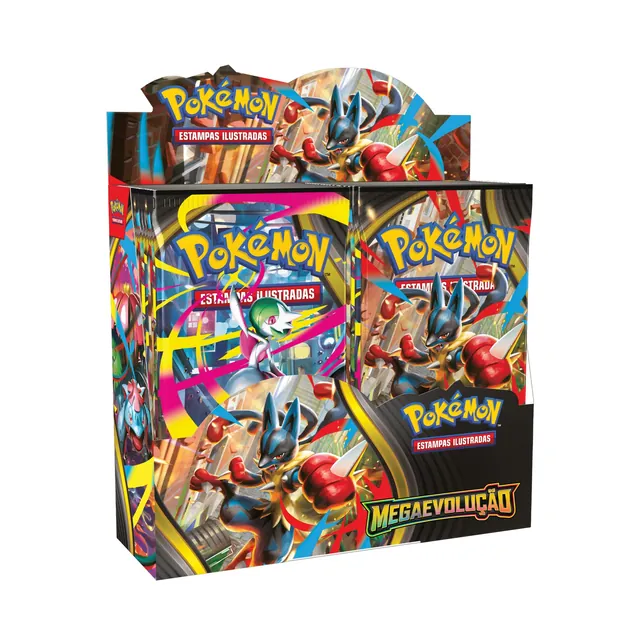
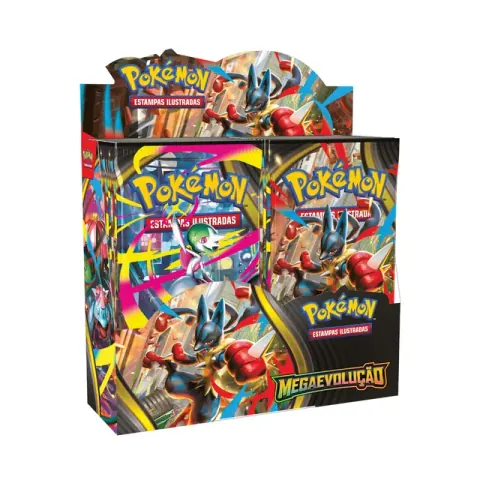
Limpa o site e otimiza imagens
- Remove as seções "Todos os jogos que você coleciona" e "Tudo pro seu acervo"
- Apaga imagens e CSS que ficaram sem uso
- Converte as imagens do topo de PNG para WebP (~2,2 MB -> ~216 KB)
- Comprime booster-box e a imagem de compartilhamento
- Carrega a fonte do Google sem bloquear a renderização
- Troca estilos inline por classes

diff --git a/index.html b/index.html
@@ -11,9 +11,9 @@
 <meta name="theme-color" content="#560509">
 <link rel="icon" type="image/png" href="img/favicon.png">
 <link rel="preload" as="image" href="img/logo.webp" fetchpriority="high">
-<link rel="preconnect" href="https://fonts.googleapis.com">
 <link rel="preconnect" href="https://fonts.gstatic.com" crossorigin>
-<link href="https://fonts.googleapis.com/css2?family=Archivo+Black&family=Archivo:wght@400;700&display=swap" rel="stylesheet">
+<link rel="preload" as="style" href="https://fonts.googleapis.com/css2?family=Archivo+Black&family=Archivo:wght@400;700&display=swap" onload="this.onload=null;this.rel='stylesheet'">
+<noscript><link rel="stylesheet" href="https://fonts.googleapis.com/css2?family=Archivo+Black&family=Archivo:wght@400;700&display=swap"></noscript>
 
 <!-- Meta Pixel Code -->
 <script>
@@ -33,16 +33,13 @@ src="https://www.facebook.com/tr?id=1001768835700035&ev=PageView&noscript=1"
 /></noscript>
 <!-- End Meta Pixel Code -->
 
-
 <style>
 :root{
   --red-1:#a3151b;
   --red-3:#560509;
   --red-4:#3d0306;
-  --card:#6e0b10;
   --line:rgba(240,196,92,.22);
   --gold:#f0c45c;
-  --cream:#fbf6ec;
   --text:#fff8ee;
   --muted:#e6c9bf;
 }
@@ -61,7 +58,6 @@ img{max-width:100%;height:auto;display:block}
 a{color:inherit;text-decoration:none}
 h1,h2,h3{font-family:'Archivo Black',sans-serif;font-weight:400;line-height:1.05;letter-spacing:-.01em}
 .hl{color:var(--gold)}
-.center{text-align:center}
 .wrap{width:min(1040px,100% - 32px);margin-inline:auto}
 section{padding:88px 0}
 /* seções abaixo da dobra só são desenhadas quando chegam perto da tela */
@@ -114,27 +110,6 @@ a:focus-visible,summary:focus-visible{outline:3px solid var(--gold);outline-offs
 .hero p{max-width:560px;margin:0 auto 22px;color:var(--muted);font-size:1.08rem}
 .hero p b{color:var(--text)}
 
-/* ================= JOGOS ================= */
-.games{border-top:1px solid var(--line)}
-.game-grid{display:grid;grid-template-columns:repeat(4,1fr);gap:14px}
-.game{border-radius:14px;overflow:hidden;background:var(--cream);aspect-ratio:4/5;display:flex;flex-direction:column}
-.game img{flex:1;min-height:0;width:100%;object-fit:contain;padding:14px;transition:transform .3s}
-.game.full img{object-fit:cover;padding:0}
-.game span{background:var(--card);padding:12px 14px;font-weight:700;font-size:.98rem}
-.game:hover img{transform:scale(1.04)}
-
-/* ================= PRODUTOS ================= */
-.products{background:linear-gradient(180deg,transparent,rgba(0,0,0,.18))}
-.prod-grid{display:grid;grid-template-columns:repeat(3,1fr);gap:20px}
-.prod{border-radius:16px;overflow:hidden;background:var(--card);border:1px solid var(--line)}
-.prod .pic{background:var(--cream);aspect-ratio:1;padding:22px}
-.prod .pic img{width:100%;height:100%;object-fit:contain}
-.prod .info{padding:16px 18px 20px}
-.prod h3{font-size:1.2rem;margin-bottom:4px}
-.prod p{color:var(--muted);font-size:.95rem}
-.also{margin:34px auto 38px;max-width:760px;text-align:center;color:var(--muted);font-size:1.02rem}
-.also b{color:var(--text)}
-
 /* ================= ALERTA ================= */
 .alert{border-block:1px solid var(--line);background:rgba(0,0,0,.14)}
 .alert .wrap{display:grid;grid-template-columns:minmax(0,.9fr) minmax(0,1.1fr);gap:64px;align-items:center}
@@ -157,6 +132,7 @@ a:focus-visible,summary:focus-visible{outline:3px solid var(--gold);outline-offs
 .points li b{color:var(--text)}
 
 /* ================= COMO FUNCIONA ================= */
+.steps-title{margin-bottom:40px}
 .steps{display:grid;grid-template-columns:repeat(3,1fr);border-top:1px solid var(--line)}
 .step{padding:30px 28px 10px 0}
 .step + .step{padding-left:28px;border-left:1px solid var(--line)}
@@ -166,6 +142,7 @@ a:focus-visible,summary:focus-visible{outline:3px solid var(--gold);outline-offs
 
 /* ================= DÚVIDAS ================= */
 .faq{padding-top:20px}
+.faq-title{margin-bottom:36px}
 .faq-list{max-width:700px;margin:0 auto}
 .faq-list details{border-bottom:1px solid var(--line)}
 .faq-list details:first-child{border-top:1px solid var(--line)}
@@ -191,8 +168,6 @@ footer small{display:block;max-width:680px;margin:10px auto 0;opacity:.8}
 /* ================= RESPONSIVO ================= */
 @media (max-width:860px){
   section{padding:68px 0}
-  .game-grid{grid-template-columns:repeat(2,1fr)}
-  .prod-grid{grid-template-columns:1fr 1fr}
   .alert .wrap{grid-template-columns:1fr;gap:44px}
   .alert .text{order:-1}
   .steps{grid-template-columns:1fr}
@@ -207,13 +182,10 @@ footer small{display:block;max-width:680px;margin:10px auto 0;opacity:.8}
   .ring{margin:auto;flex:none;width:min(100vw - 8px,calc((100vh - 440px)*1.19));width:min(100vw - 8px,calc((100svh - 440px)*1.19))}
   .hero h1{font-size:min(1.85rem,7.5vw);margin:22px 0 14px}
   .hero p{font-size:1rem;margin-bottom:26px}
-  .prod-grid{grid-template-columns:1fr}
   .btn{padding:0 22px;font-size:15px;letter-spacing:1px}
-  .game span{font-size:.9rem;padding:10px 12px}
 }
 @media (hover:none){
   .btn:hover{transform:none;filter:none}
-  .game:hover img{transform:none}
 }
 @media (prefers-reduced-motion:reduce){
   *,*::before,*::after{transition:none!important}
@@ -238,61 +210,19 @@ footer small{display:block;max-width:680px;margin:10px auto 0;opacity:.8}
 <section class="hero">
   <div class="wrap">
     <div class="ring" aria-hidden="true">
-      <img class="i1" src="img/hero-1.png" width="374" height="500" alt="">
-      <img class="i2" src="img/hero-2.png" width="532" height="469" alt="">
-      <img class="i3" src="img/hero-3.png" width="520" height="520" alt="">
-      <img class="i4" src="img/hero-4.png" width="427" height="584" alt="">
-      <img class="i5" src="img/hero-5.png" width="539" height="463" alt="">
-      <img class="i6" src="img/hero-6.png" width="431" height="579" alt="">
-      <img class="i7" src="img/hero-7.png" width="500" height="500" alt="">
+      <img class="i1" src="img/hero-1.webp" width="374" height="500" alt="" decoding="async">
+      <img class="i2" src="img/hero-2.webp" width="420" height="370" alt="" decoding="async">
+      <img class="i3" src="img/hero-3.webp" width="420" height="420" alt="" decoding="async">
+      <img class="i4" src="img/hero-4.webp" width="420" height="574" alt="" decoding="async">
+      <img class="i5" src="img/hero-5.webp" width="420" height="361" alt="" decoding="async">
+      <img class="i6" src="img/hero-6.webp" width="420" height="564" alt="" decoding="async">
+      <img class="i7" src="img/hero-7.webp" width="420" height="420" alt="" decoding="async">
       <img class="logo" src="img/logo.webp" width="398" height="400" alt="" fetchpriority="high">
     </div>
 
     <h1>Seu próximo booster<br><span class="hl">pelo menor preço.</span></h1>
     <p>Entre no <b>Time Cupom</b> e receba ofertas e cupons de <b>Pokémon, One Piece, Magic</b> e muito mais no WhatsApp!</p>
     <a class="btn" href="https://chat.whatsapp.com/FATgyGn75kA5ypCOm2N9PA" target="_blank" rel="noopener"><svg aria-hidden="true"><use href="#i-wpp"/></svg> Entrar no clube grátis</a>
-  </div>
-</section>
-
-<!-- JOGOS -->
-<section class="games">
-  <div class="wrap">
-    <h2 class="sec-title">Todos os jogos que você coleciona</h2>
-    <p class="sec-sub">Se tem carta, tem oferta. A gente acompanha os principais TCGs do mercado.</p>
-    <div class="game-grid">
-      <a class="game reveal" href="https://chat.whatsapp.com/FATgyGn75kA5ypCOm2N9PA" target="_blank" rel="noopener"><img src="img/tcg-pokemon.webp" width="466" height="520" alt="" loading="lazy" decoding="async"><span>Pokémon</span></a>
-      <a class="game reveal" href="https://chat.whatsapp.com/FATgyGn75kA5ypCOm2N9PA" target="_blank" rel="noopener"><img src="img/tcg-one-piece.webp" width="316" height="500" alt="" loading="lazy" decoding="async"><span>One Piece</span></a>
-      <a class="game reveal" href="https://chat.whatsapp.com/FATgyGn75kA5ypCOm2N9PA" target="_blank" rel="noopener"><img src="img/tcg-magic.webp" width="520" height="520" alt="" loading="lazy" decoding="async"><span>Magic</span></a>
-      <a class="game reveal" href="https://chat.whatsapp.com/FATgyGn75kA5ypCOm2N9PA" target="_blank" rel="noopener"><img src="img/tcg-yugioh.webp" width="520" height="520" alt="" loading="lazy" decoding="async"><span>Yu-Gi-Oh!</span></a>
-      <a class="game reveal" href="https://chat.whatsapp.com/FATgyGn75kA5ypCOm2N9PA" target="_blank" rel="noopener"><img src="img/tcg-dragon-ball.webp" width="403" height="520" alt="" loading="lazy" decoding="async"><span>Dragon Ball</span></a>
-      <a class="game reveal" href="https://chat.whatsapp.com/FATgyGn75kA5ypCOm2N9PA" target="_blank" rel="noopener"><img src="img/tcg-digimon.webp" width="350" height="500" alt="" loading="lazy" decoding="async"><span>Digimon</span></a>
-      <a class="game reveal" href="https://chat.whatsapp.com/FATgyGn75kA5ypCOm2N9PA" target="_blank" rel="noopener"><img src="img/tcg-lorcana.webp" width="520" height="520" alt="" loading="lazy" decoding="async"><span>Lorcana</span></a>
-      <a class="game full reveal" href="https://chat.whatsapp.com/FATgyGn75kA5ypCOm2N9PA" target="_blank" rel="noopener"><img src="img/tcg-mais.webp" width="520" height="520" alt="" loading="lazy" decoding="async"><span>E muito mais</span></a>
-    </div>
-  </div>
-</section>
-
-<!-- PRODUTOS -->
-<section class="products">
-  <div class="wrap">
-    <h2 class="sec-title">Tudo pro seu acervo <span class="hl">pelo menor preço</span></h2>
-    <p class="sec-sub">Do pacote avulso à caixa fechada, o que vale a pena chega no grupo.</p>
-    <div class="prod-grid">
-      <div class="prod reveal">
-        <div class="pic"><img src="img/booster-box.webp" width="640" height="640" alt="Booster box Pokémon Megaevolução" loading="lazy" decoding="async"></div>
-        <div class="info"><h3>Booster box</h3><p>Caixas fechadas com o menor preço por pacote.</p></div>
-      </div>
-      <div class="prod reveal">
-        <div class="pic"><img src="img/booster-pack.webp" width="373" height="500" alt="Combo de pacotes de booster Raio Preto" loading="lazy" decoding="async"></div>
-        <div class="info"><h3>Combos e boosters</h3><p>Pacotes avulsos e combos pra abrir sem pesar no bolso.</p></div>
-      </div>
-      <div class="prod reveal">
-        <div class="pic"><img src="img/tcg-magic.webp" width="520" height="520" alt="Starter kit de Magic" loading="lazy" decoding="async"></div>
-        <div class="info"><h3>Decks e starter kits</h3><p>Decks prontos pra começar a jogar ou presentear.</p></div>
-      </div>
-    </div>
-    <p class="also">Também aparecem <b>ETBs</b>, <b>sleeves</b>, <b>deck boxes</b>, <b>playmats</b>, <b>fichários</b> e <b>pré-vendas</b> de lançamentos.</p>
-    <div class="center"><a class="btn" href="https://chat.whatsapp.com/FATgyGn75kA5ypCOm2N9PA" target="_blank" rel="noopener"><svg aria-hidden="true"><use href="#i-wpp"/></svg> Quero as ofertas</a></div>
   </div>
 </section>
 
@@ -304,7 +234,7 @@ footer small{display:block;max-width:680px;margin:10px auto 0;opacity:.8}
         <div class="chat-head"><img src="img/logo.webp" width="38" height="38" alt="" loading="lazy" decoding="async"><div><b>Time Cupom | Ofertas TCG</b><small>Só administradores enviam mensagens</small></div></div>
         <div class="chat-body">
           <div class="bubble">
-            <img src="img/booster-box.webp" width="640" height="640" alt="" loading="lazy" decoding="async">
+            <img src="img/booster-box.webp" width="480" height="480" alt="" loading="lazy" decoding="async">
             <b>Booster Box Pokémon Megaevolução</b><br>
             De <s>R$ 999,90</s> por <span class="price">R$ 749,90</span><br>
             Cupom: <b>TIMECUPOM</b><br>
@@ -331,7 +261,7 @@ footer small{display:block;max-width:680px;margin:10px auto 0;opacity:.8}
 <!-- COMO FUNCIONA -->
 <section>
   <div class="wrap">
-    <h2 class="sec-title" style="margin-bottom:40px">Como funciona</h2>
+    <h2 class="sec-title steps-title">Como funciona</h2>
     <div class="steps">
       <div class="step reveal"><span class="n">1</span><h3>Toque no botão verde</h3><p>O WhatsApp abre o convite do grupo. Não precisa de cadastro.</p></div>
       <div class="step reveal"><span class="n">2</span><h3>Receba os alertas</h3><p>Booster, ETB, display: a oferta chega assim que aparece.</p></div>
@@ -343,7 +273,7 @@ footer small{display:block;max-width:680px;margin:10px auto 0;opacity:.8}
 <!-- DÚVIDAS -->
 <section class="faq">
   <div class="wrap">
-    <h2 class="sec-title" style="margin-bottom:36px">Perguntas frequentes</h2>
+    <h2 class="sec-title faq-title">Perguntas frequentes</h2>
     <div class="faq-list">
       <details><summary>É de graça mesmo?</summary><p>Sim. O grupo é 100% gratuito. Você só paga pelo que decidir comprar, direto na loja.</p></details>
       <details><summary>Preciso fazer cadastro?</summary><p>Não. É só tocar no botão e entrar no grupo pelo WhatsApp.</p></details>
